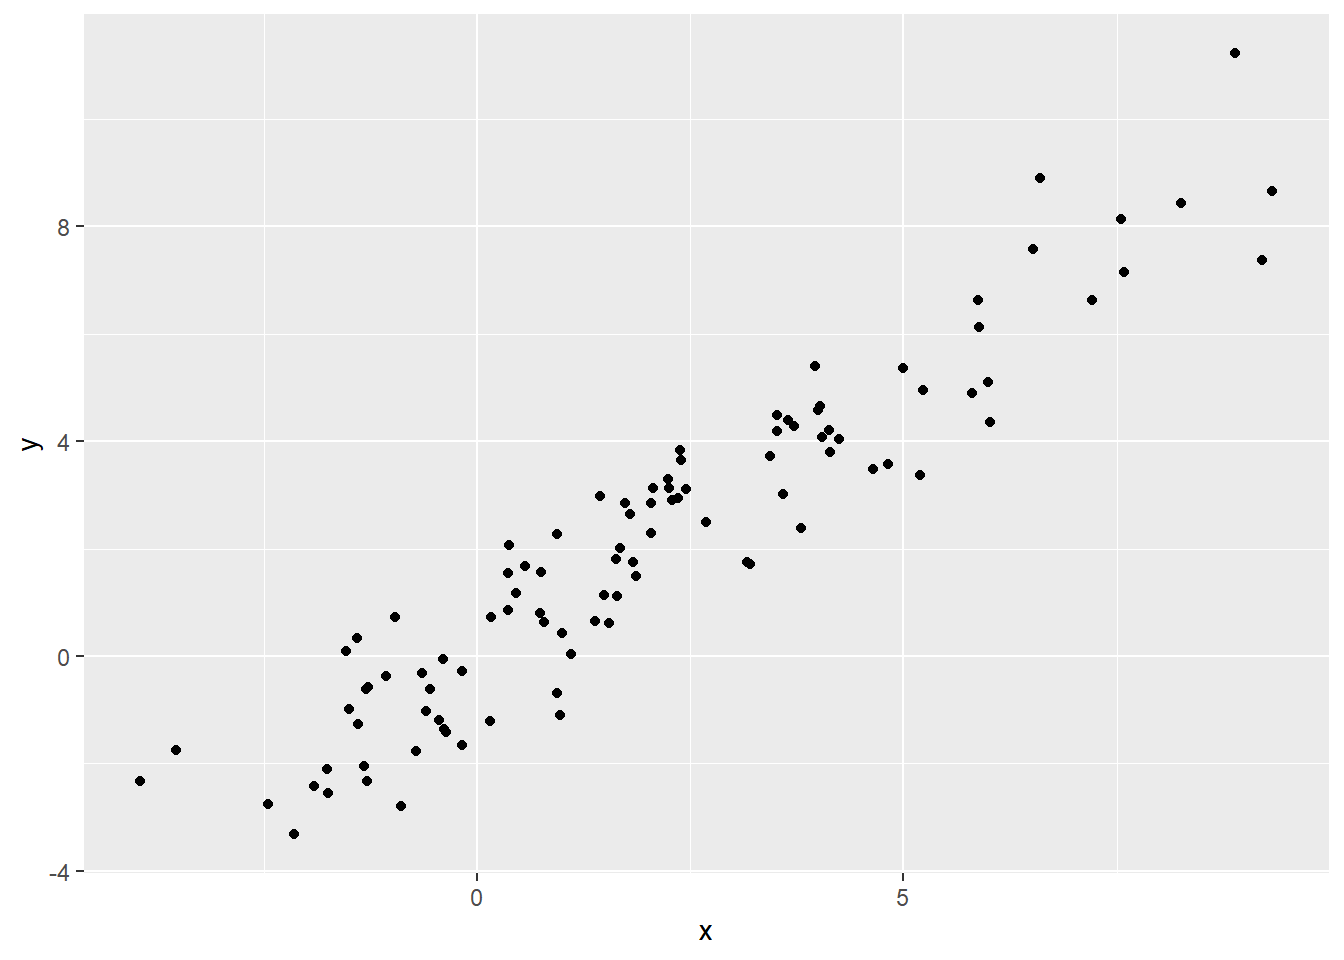
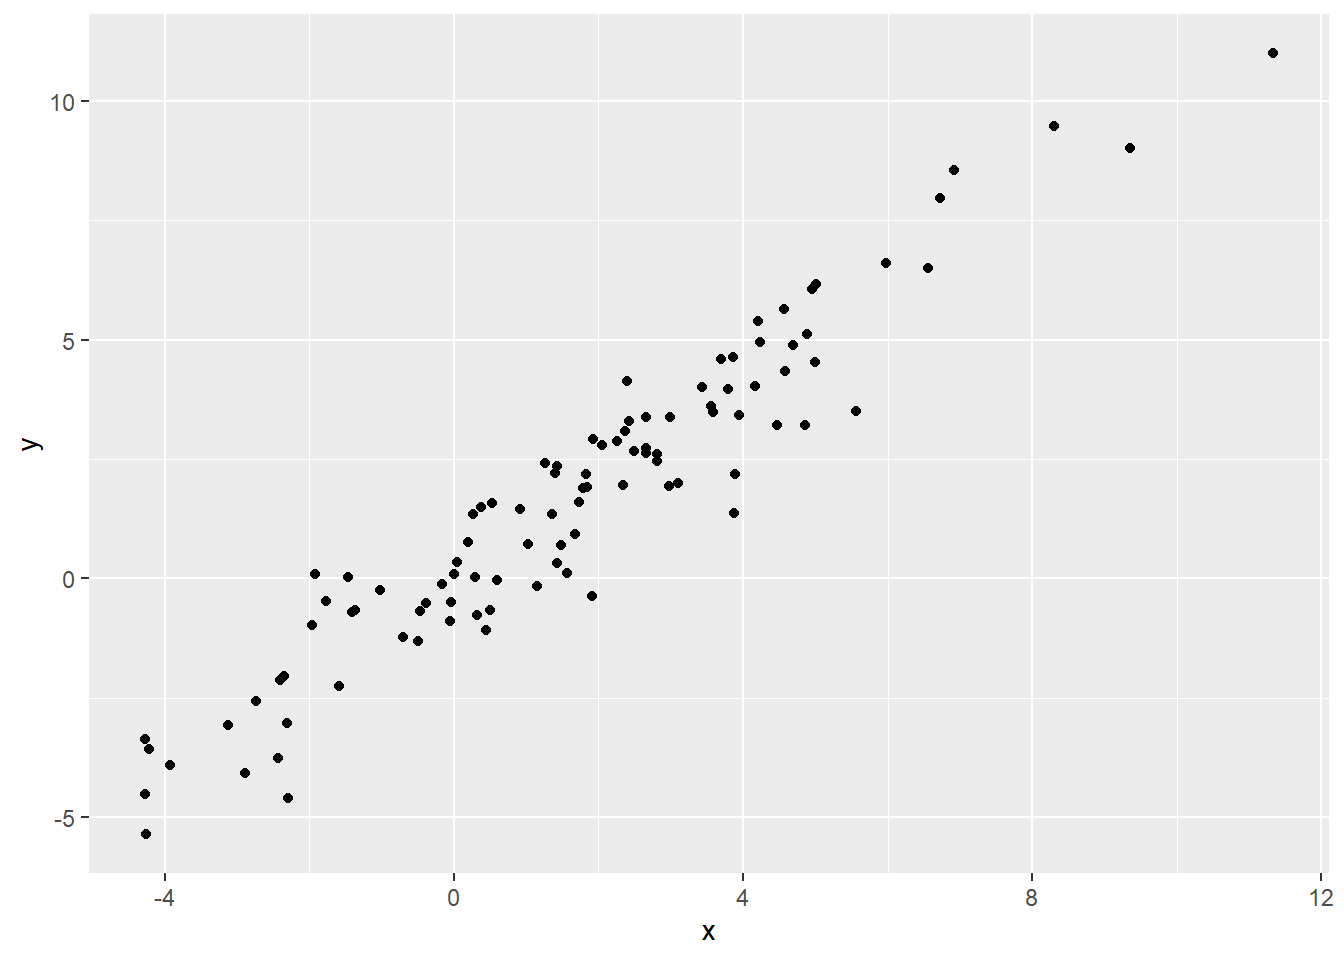
image

diff --git a/plots.html b/plots.html
@@ -359,13 +359,13 @@ div.tocify {
 <h1>scatterplots</h1>
 <p>here are some plots</p>
 <pre class="r"><code>library(tidyverse)</code></pre>
-<pre><code>## ── Attaching core tidyverse packages ──────────────────────── tidyverse 2.0.0 ──
+<pre><code>## ── Attaching core tidyverse packages ────────── tidyverse 2.0.0 ──
 ## ✔ dplyr     1.2.1     ✔ readr     2.2.0
 ## ✔ forcats   1.0.1     ✔ stringr   1.6.0
 ## ✔ ggplot2   4.0.3     ✔ tibble    3.3.1
 ## ✔ lubridate 1.9.5     ✔ tidyr     1.3.2
 ## ✔ purrr     1.2.2     
-## ── Conflicts ────────────────────────────────────────── tidyverse_conflicts() ──
+## ── Conflicts ──────────────────────────── tidyverse_conflicts() ──
 ## ✖ dplyr::filter() masks stats::filter()
 ## ✖ dplyr::lag()    masks stats::lag()
 ## ℹ Use the conflicted package (&lt;http://conflicted.r-lib.org/&gt;) to force all conflicts to become errors</code></pre>

diff --git a/index.html b/index.html
@@ -368,7 +368,7 @@ href="https://p8105.com/">P8105</a>!</p>
 <div id="some-other-stuff-thats-really-cool" class="section level1">
 <h1>some other stuff that’s really cool</h1>
 <p>here’s a really cool picture that i took:</p>
-<p><img src="images/ted.jpg" style="width:75%"></p>
+<p><img src = "images/played_in_her_face.jpeg" style = "width:75%"></p>
 <p>another cool thing is scatterplots. check this <a
 href="plots.html">out</a></p>
 </div>
